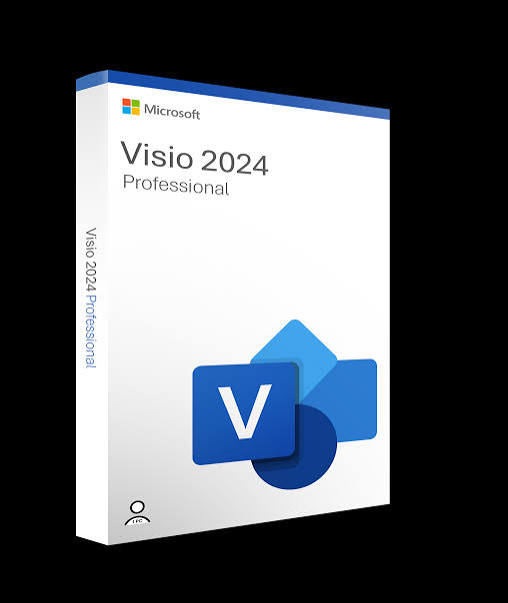
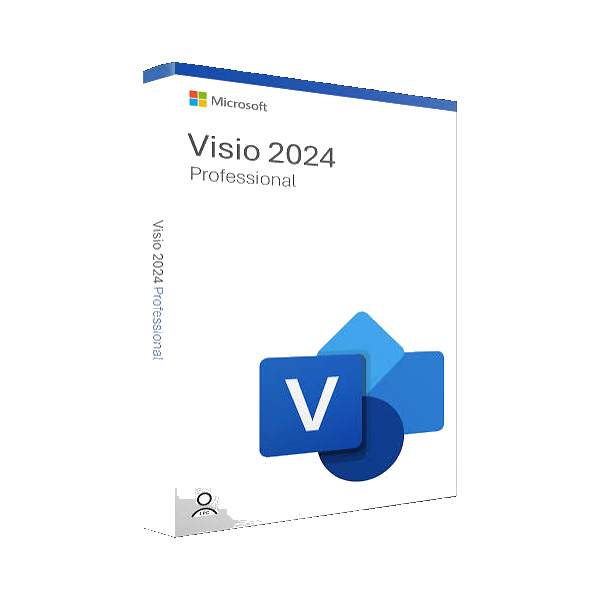
feat: update Visio 2024 product assets
Replace external thumbnail URL with local webp asset and update source files for improved loading performance and consistency.

diff --git a/src/products.ts b/src/products.ts
@@ -871,7 +871,7 @@ export const products: Product[] = [
     duration: "Permanente",
     rating: 4.9,
     reviews: 51,
-    imageUrl: "https://encrypted-tbn0.gstatic.com/images?q=tbn:ANd9GcQqwkRv3F75ECPbyHQzXmRlXVLw7YwclHnb04KJKlFsmA&s=10",
+    imageUrl: "/products/visio-2024.webp",
     fallbackImage: "/products/visio-2024.jpg",
     description: "Cree diagramas de flujo avanzados, organigramas, esquemas de red, planos de planta y modelos de ingeniería con más de 250,000 formas actualizadas.",
     features: [
